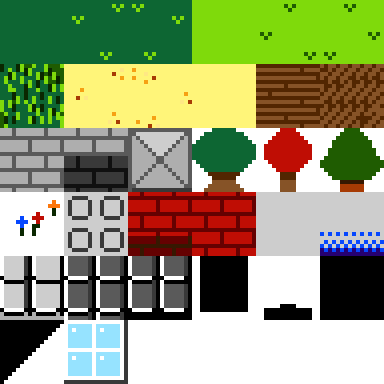
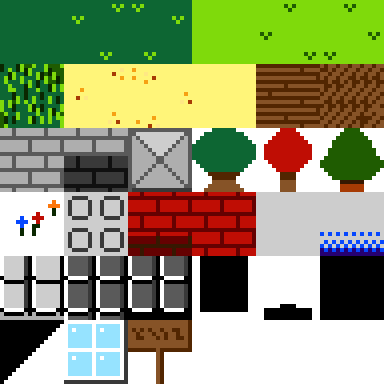
Fixed some map issues and added signs

Changed region(s): [[0.3125, 0.8125, 0.5, 1.0]]

diff --git a/src/js/play.js b/src/js/play.js
@@ -49,6 +49,9 @@ Game.Play.prototype = {
     // this.map.setCollision(27);
 
     // this.map.setCollision(28);
+     
+    // Signs
+    this.map.setCollision(33,true,'layer2');
 
     // Initial Player Position by tile
     player.tilex = 12;
